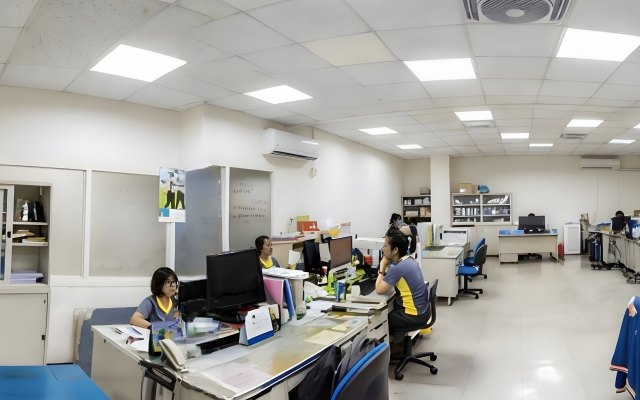
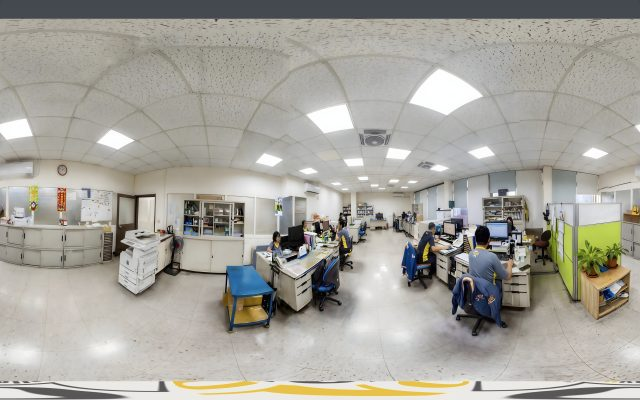
Remove ghost person and fix AC louver artifacts in 2F sales panorama

diff --git a/index.html b/index.html
@@ -11,7 +11,7 @@
   <link href="https://fonts.googleapis.com/css2?family=Noto+Sans+TC:wght@400;500;600;700&family=Noto+Serif+TC:wght@600;700&display=swap" rel="stylesheet">
   <link rel="stylesheet" href="https://cdn.jsdelivr.net/npm/@photo-sphere-viewer/core@5.14.1/index.css">
   <link rel="stylesheet" href="https://cdn.jsdelivr.net/npm/@photo-sphere-viewer/markers-plugin@5.14.1/index.css">
-  <link rel="stylesheet" href="./css/tour.css?v=77">
+  <link rel="stylesheet" href="./css/tour.css?v=78">
   <script type="importmap">
   {
     "imports": {
@@ -94,51 +94,35 @@
     </div>
 
     <aside id="f360-guide" class="f360-guide" hidden aria-label="虛擬導覽員">
-      <div class="f360-guide__head">
-        <div class="f360-guide__persona">
-          <div class="f360-guide__avatar" data-guide-avatar aria-hidden="true">
-            <span class="f360-guide__avatar-ring"></span>
-            <div class="f360-guide__avatar-frame">
-              <img
-                class="f360-guide__avatar-img"
-                src="./media/guide/avatar.jpg?v=55"
-                alt=""
-                width="96"
-                height="96"
-                decoding="async"
-              >
-              <span class="f360-guide__jaw" aria-hidden="true">
-                <img
-                  class="f360-guide__avatar-img"
-                  src="./media/guide/avatar.jpg?v=55"
-                  alt=""
-                  decoding="async"
-                >
-              </span>
-              <span class="f360-guide__avatar-shade"></span>
-              <span class="f360-guide__avatar-live"></span>
-            </div>
-            <span class="f360-guide__wave"></span>
-            <span class="f360-guide__wave f360-guide__wave--late"></span>
-          </div>
-          <div class="f360-guide__meta">
-            <p class="f360-guide__name" data-guide-name>金享導覽員</p>
-            <p class="f360-guide__role" data-guide-role>虛擬導覽</p>
-            <p class="f360-guide__status" data-guide-status>待命</p>
-            <span class="f360-guide__eq" aria-hidden="true"><i></i><i></i><i></i><i></i><i></i></span>
-          </div>
+      <div class="f360-presenter" data-guide-avatar aria-hidden="true">
+        <img
+          class="f360-presenter__img"
+          src="./media/guide/presenter_closed.png"
+          alt=""
+          decoding="async"
+        >
+        <img
+          class="f360-presenter__img f360-presenter__img--open"
+          src="./media/guide/presenter_open.png"
+          alt=""
+          decoding="async"
+        >
+        <div class="f360-presenter__plate">
+          <p class="f360-presenter__name" data-guide-name>金享導覽員</p>
+          <p class="f360-presenter__status" data-guide-status>待命</p>
+          <span class="f360-guide__eq" aria-hidden="true"><i></i><i></i><i></i><i></i><i></i></span>
         </div>
-        <button type="button" class="f360-guide__icon-btn" data-guide-close aria-label="收合導覽員">收合</button>
       </div>
-      <div class="f360-guide__body">
-        <p class="f360-guide__title" data-guide-title></p>
-        <p class="f360-guide__text" data-guide-text></p>
-        <div class="f360-guide__poi" data-guide-poi-list hidden></div>
-      </div>
-      <div class="f360-guide__actions">
-        <button type="button" class="f360-guide__btn f360-guide__btn--primary" data-guide-play>播放語音</button>
-        <button type="button" class="f360-guide__btn" data-guide-stop>停止</button>
-        <button type="button" class="f360-guide__btn" data-guide-mute aria-pressed="false">靜音</button>
+      <div class="f360-subtitle">
+        <p class="f360-subtitle__title" data-guide-title></p>
+        <p class="f360-subtitle__text" data-guide-text></p>
+        <div class="f360-subtitle__poi" data-guide-poi-list hidden></div>
+        <div class="f360-subtitle__actions">
+          <button type="button" class="f360-guide__btn f360-guide__btn--primary" data-guide-play>播放語音</button>
+          <button type="button" class="f360-guide__btn" data-guide-stop>停止</button>
+          <button type="button" class="f360-guide__btn" data-guide-mute aria-pressed="false">靜音</button>
+          <button type="button" class="f360-guide__btn" data-guide-close>收起導覽員</button>
+        </div>
       </div>
     </aside>
 
@@ -195,6 +179,6 @@
     </div>
   </div>
 
-  <script type="module" src="./js/tour.js?v=77"></script>
+  <script type="module" src="./js/tour.js?v=78"></script>
 </body>
 </html>

diff --git a/js/tour.js b/js/tour.js
@@ -14,7 +14,7 @@ try {
   guideApi = null;
 }
 
-const MEDIA_VERSION = '77';
+const MEDIA_VERSION = '78';
 const STATIONS_URL = `./media/stations.json?v=${MEDIA_VERSION}`;
 const DEFAULT_ZOOM = 42;
 const THUMBS_COLLAPSE_KEY = 'f360-thumbs-collapsed';
